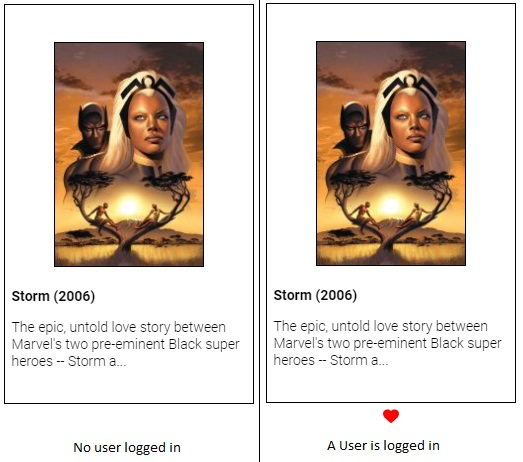
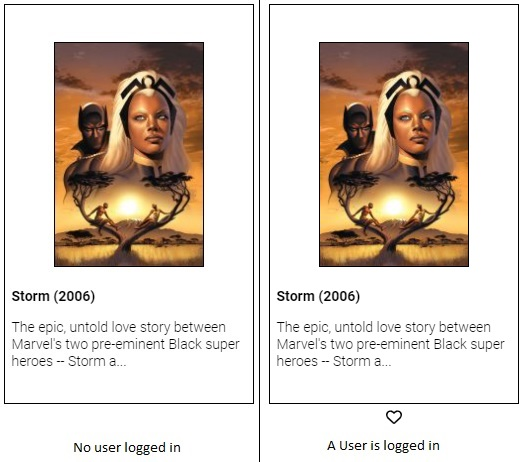
the README.md file

Changed region(s): [[0.5813, 0.0909, 0.9178, 0.5758], [0.4895, 0.0, 1.0, 0.9394]]

diff --git a/README.md b/README.md
@@ -82,6 +82,12 @@ const isFavorite = (favoriteComics, comicObject) => {
 }
 ```
 
+If the user clicks on a hollow heart, the comic is added to the favorites, and a solid heart is shown.
+
+![image](./imagesForReadme/favoriteComic.jpg)
+
+If the user clicks on a solid heart, the comic is removed from the favorites, and a hollow heart is shown again (unfavorite the comic).
+
 If the call to this component is from Favorites, it displays a craked icon:
 
 ![image](./imagesForReadme/onceInFavorites.jpg)
